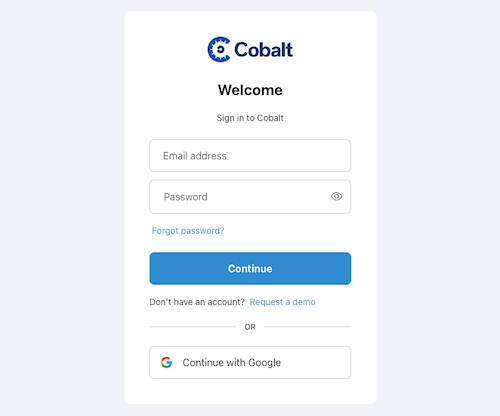
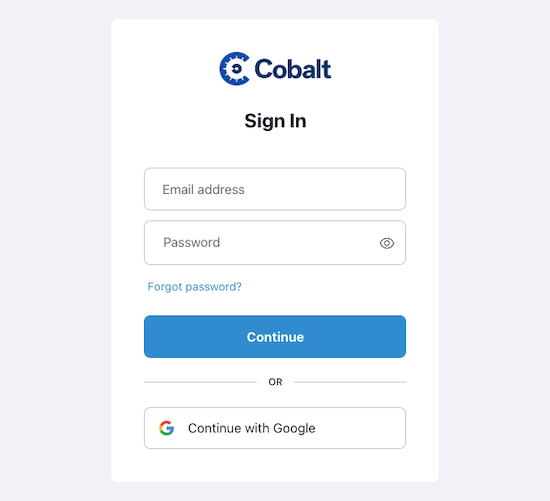
Updates

Changed region(s): [[0.24, 0.3438, 0.75, 0.9062], [0.39, 0.0625, 0.6, 0.3125], [0.27, 0.4375, 0.3, 0.4688]]

diff --git a/content/en/Platform Deep Dive/Cobalt Account/account-settings.md b/content/en/Platform Deep Dive/Cobalt Account/account-settings.md
@@ -43,7 +43,7 @@ You can change your password by resetting it.
 1. Select **Change Password**.
 1. Follow the instructions in the email that you receive to reset your password.
 
-If you're using Google authentication, sign in with your email and password, and then change your password.
+If you're using Google authentication (OAuth 2.0), sign in with your email and password, and then change your password.
 
 If you [forgot your password](/platform-deep-dive/cobalt-account/account-recovery/#forgot-your-password), you can reset it from the Sign In page.
 
@@ -58,24 +58,24 @@ To manage two-factor authentication (2FA) settings for your account, select **Se
 If you're **signing in with your email and password**, you can enable two-factor authentication (2FA) to protect your account. 2FA adds another layer of security to your account by requiring more than just a password to sign in.
 
 - Even if your organization doesn't [enforce 2FA](/platform-deep-dive/collaboration/organization/organization-settings/enforce-2fa/) for all users, we recommend that you enable it to enhance your account security.
-- If you're signing in through single sign-on, 2FA doesn't apply. This includes [SAML SSO](/getting-started/sign-in/#saml-sso) and Google authentication.
+- If you're signing in through single sign-on, 2FA doesn't apply. This includes [SAML SSO](/getting-started/sign-in/#saml-sso) and OAuth.
 
 To enable 2FA on your account:
 
 1. Navigate to https://app.cobalt.io/settings/security/2fa.
-1. Under **Two-Factor Authentication (2FA)**, select **Manage**.
-1. To add a new authenticator device, select **Add New OTP**.
+1. Under **Two-Factor Authentication (2FA)**, select **Manage**, and reauthenticate to your account.
+1. To add a new authenticator device, select **Add a new OTP device**.
 1. Follow the instructions on the screen to complete the process. Use an authenticator of your choice, such as [Authy](https://authy.com/) or [Google Authenticator](https://support.google.com/accounts/answer/1066447).
-1. Add one or more backup devices to avoid being locked out of your account. Select **Add New OTP** to proceed.
+1. Add one or more backup devices to avoid being locked out of your account. Select **Add a new OTP device** to proceed.
 
 Now, each time you sign in to Cobalt, you must enter a one-time code from your authenticator app. If you have problems signing in with 2FA, see our [troubleshooting tips](/platform-deep-dive/cobalt-account/account-recovery/#problems-with-two-factor-authentication).
 
 #### Manage 2FA Devices
 
-When you add a new 2FA device, it appears under **Current Devices**. Here, you can see devices with an authenticator app that generates one-time codes required for authentication to your Cobalt account.
+When you add a new 2FA device, it appears on the account security page<!--under **Current Devices**-->. Here, you can see devices with an authenticator app that generates one-time codes required for authentication to your Cobalt account.
 
-- **Add multiple backup devices** to avoid being locked out of your account. Select **Add New OTP** to proceed.
-- **Remove a device** if it's no longer valid or has been lost or stolen. Select **Remove**, and confirm your action.
+- **Add multiple backup devices** to avoid being locked out of your account. Select **Add a new OTP device** to proceed.
+- **Remove a device** if it's no longer valid or has been lost or stolen. Select **Delete**, and confirm your action.
 
 #### Reset Two-Factor Authentication
 

diff --git a/content/en/Platform Deep Dive/Credits/ptaas-tiers.md b/content/en/Platform Deep Dive/Credits/ptaas-tiers.md
@@ -23,7 +23,7 @@ The availability of some features in the Cobalt platform depends on the {{% ptaa
 | Offering | Standard Tier | Premium Tier | Enterprise Tier | Description |
 |---|---|---|---|---|
 | Self-service platform with Google OAuth 2.0 and two-factor authentication | ✓ | ✓ | ✓ | Users can [sign in](/getting-started/sign-in/) with a username and password or through Google authentication. An Organization Owner can enforce [two-factor authentication](/getting-started/sign-in/#two-factor-authentication) for their organization to add an extra layer of security to user accounts. |
-| SAML-based SSO | ✓ | ✓ | ✓ | An Organization Owner can configure [SAML-based SSO](/getting-started/sign-in/#saml-sso) for their organization to enhance the security of the sign-in process. |
+| SAML-based SSO | ✓ | ✓ | ✓ | An Organization Owner can [configure SAML-based SSO](/platform-deep-dive/collaboration/organization/organization-settings/saml-sso/) for their organization to enhance the security of the sign-in process. |
 | Best practice methodology and coverage checklist | ✓ | ✓ | ✓ | Our pentesters use [pentest methodologies](/platform-deep-dive/pentests/pentest-process/methodologies/) that are recognized as best practices in the security industry. They follow a coverage checklist based on [OWASP](https://owasp.org/) standards to test your assets. |
 | Detailed findings with recommended fixes | ✓ | ✓ | ✓ | When our pentesters find a [vulnerability](/getting-started/glossary/#vulnerability) in your [asset](/getting-started/glossary/#asset) during a pentest, they submit [findings](/getting-started/glossary/#finding) and provide recommendations on how to fix them. |
 | Real-time collaboration via Slack and the platform | ✓ | ✓ | ✓ | You get real-time updates from pentesters as they're testing your asset—in a dedicated Slack channel and in the Cobalt platform. You can promptly follow up on the issues they reported. |

diff --git a/content/en/Platform Deep Dive/Cobalt Account/account-recovery.md b/content/en/Platform Deep Dive/Cobalt Account/account-recovery.md
@@ -20,6 +20,7 @@ Follow these instructions if you can't sign in to Cobalt because:
 - You have [problems with two-factor authentication (2FA)](#problems-with-two-factor-authentication):
   - You [lost access to your authenticator](#lost-access-to-your-authenticator).
   - [One-time codes](#one-time-codes-dont-work) don't work.
+  - ["Remember this device" option](#remember-this-device-doesnt-work) doesn't work.
 - You [forgot your password](#forgot-your-password).
 - [We don't recognize your device](#we-dont-recognize-your-device).
 - You have [problems with SAML SSO](#cant-sign-in-using-saml-sso).
@@ -64,6 +65,18 @@ One-time codes that your authenticator app generates are time-based. If the code
 
 - Enter the code promptly, within 30 seconds as it appears in the authenticator app.
 - Make sure the time is synchronized between the devices. If you manually changed the time zone on your mobile device earlier, select the system time zone.
+
+### "Remember This Device" Doesn't Work
+
+When you sign in to Cobalt using 2FA, you can select **Remember this device for 30 days**. This option works for a specific device and browser.
+
+You need to enter a one-time code from your authenticator if:
+
+- You're using a different device or browser.
+- You cleared cookies from your browser, or you haven't enabled them.
+- You're browsing in incognito mode.
+- You're using a different internet connection.
+- Another user signed in on the same device using the same browser.
 
 ## Forgot Your Password
 

diff --git a/content/en/Platform Deep Dive/Collaboration/Organization/Organization Settings/enforce-2fa.md b/content/en/Platform Deep Dive/Collaboration/Organization/Organization Settings/enforce-2fa.md
@@ -15,7 +15,7 @@ As an [Organization Owner](/getting-started/glossary/#organization-owner), you c
 Note the following about 2FA enforcement:
 
 - 2FA enforcement only applies to **users who authenticate with their email and password**.
-- 2FA enforcement doesn't apply to single sign-on (SSO). This includes [SAML single sign-on (SSO)](/getting-started/sign-in/#saml-sso) and Google authentication.
+- 2FA enforcement doesn't apply to single sign-on (SSO). This includes [SAML single sign-on (SSO)](/getting-started/sign-in/#saml-sso) and Google authentication (OAuth 2.0).
 - If your organization has SAML SSO enforced, you can't enforce 2FA. Your SAML provider may already require 2FA.
 - 2FA enforcement affects users with the following roles:
     {{% owner-member-team-member %}}
@@ -26,9 +26,7 @@ Note the following about 2FA enforcement:
 1. Under **Enforce Two-Factor Authentication (2FA)**, turn on the toggle.
 1. In the overlay that appears, confirm your action.
 
-Users who haven't yet configured 2FA on their account get an email notification. They must enable 2FA upon their next sign-in.
-
-As an Organization Owner who enforces 2FA, you see an overlay prompting you to [enable 2FA](/platform-deep-dive/cobalt-account/account-settings/#enable-two-factor-authentication)—if you haven't already.
+Users get an email notification to enable 2FA. They must enable 2FA upon their next sign with their email and password.
 
 {{< alert title="Tip" color="primary" >}}
 {{% 2fa-see-troubleshooting %}}

diff --git a/content/en/Getting started/sign-in.md b/content/en/Getting started/sign-in.md
@@ -27,8 +27,8 @@ Depending on the configurations of your organization, you can sign in to Cobalt 
   - If your organization has [enforced SAML](/platform-deep-dive/collaboration/organization/organization-settings/saml-sso/#enforce-saml-sso), authentication from the Cobalt {{% sign-in %}} page is not possible.
 - From the Cobalt {{% sign-in %}} page, with:
   - Your email address and password.
-  - Your Google account that you used to set up your profile with Cobalt.<br><br>
-  ![Cobalt Sign In page](/gsg/Cobalt-Sign-In-Page.png "Cobalt Sign In page")
+  - Your Google account with which you were invited to Cobalt.<br><br>
+  ![Cobalt Sign In page](/gsg/Cobalt-sign-in-page.png "Cobalt Sign In page")
 
 {{< alert title="Tip" color="primary" >}}
 If you have problems signing in, see [Troubleshoot Sign-in Issues](/platform-deep-dive/cobalt-account/account-recovery/).

diff --git a/content/en/Platform Deep Dive/Collaboration/Organization/Organization Settings/SAML SSO/saml-migration.md b/content/en/Platform Deep Dive/Collaboration/Organization/Organization Settings/SAML SSO/saml-migration.md
@@ -12,7 +12,7 @@ description: >
 
 This page is for [Organization Owners](/getting-started/glossary/#organization-owner) who have set up their SAML SSO configuration **before April 24, 2023**.
 
-- If you don't update your SAML configuration, users in your organization will have to authenticate with their email and password or using Google authentication (if relevant).
+- If you don't update your SAML configuration, users in your organization will have to authenticate with their email and password or using Google authentication (OAuth 2.0), if relevant.
 - Make sure to update configurations for each organization where you're an Organization Owner.
 - If you don't have a legacy SAML setup, please visit [Configure SAML SSO](/platform-deep-dive/collaboration/organization/organization-settings/saml-sso/) for instructions.
 

diff --git a/content/en/Getting started/glossary.md b/content/en/Getting started/glossary.md
@@ -399,7 +399,8 @@ In the service provider-initiated (SP-initiated) [SAML SSO](#saml-single-sign-on
 
 In the identity provider-initiated (IdP-initiated) [SAML SSO](#saml-single-sign-on-sso), the authentication workflow starts on the identity provider side.
 
-- First, a user signs in to the identity provider system (such as Okta, OneLogin, or Microsoft Azure AD) and selects the app configured for their service provider.
+- First, a user signs in to the identity provider system, such as Okta, OneLogin, or Microsoft Azure AD.
+- The user selects the app configured for their service provider in the IdP system or follows a unique URL.
 - The service provider requests the IdP to authenticate the user.
 - Once the user's identity is authenticated on the IdP side, the user is signed in to the service provider system.
 

diff --git a/content/en/Platform Deep Dive/Collaboration/Organization/Organization Settings/_index.md b/content/en/Platform Deep Dive/Collaboration/Organization/Organization Settings/_index.md
@@ -24,7 +24,7 @@ Both [Organization Owners](/getting-started/glossary/#organization-owner) and [M
 
 ## Manage Security Settings
 
-Only [Organization Owners](/getting-started/glossary/#organization-owner) can manage identity and access settings:
+Only [Organization Owners](/getting-started/glossary/#organization-owner) can manage security settings on the **Identity & Access** tab:
 
 - [Enforce two-factor authentication](/platform-deep-dive/collaboration/organization/organization-settings/enforce-2fa/) for all users within the organization.
 - Configure [SAML-based single sign-on (SSO)](/platform-deep-dive/collaboration/organization/organization-settings/saml-sso/).

diff --git a/content/en/Platform Deep Dive/Collaboration/Organization/Organization Settings/SAML SSO/_index.md b/content/en/Platform Deep Dive/Collaboration/Organization/Organization Settings/SAML SSO/_index.md
@@ -32,7 +32,7 @@ If [SAML SSO enforcement](#enforce-saml-sso) is off, users can authenticate in t
 
 - Through SAML SSO
 - With their email and password
-- Using Google authentication (OAuth), if relevant
+- Using Google authentication (OAuth 2.0), if relevant
 
 Here’s a general configuration workflow for SAML SSO:
 
